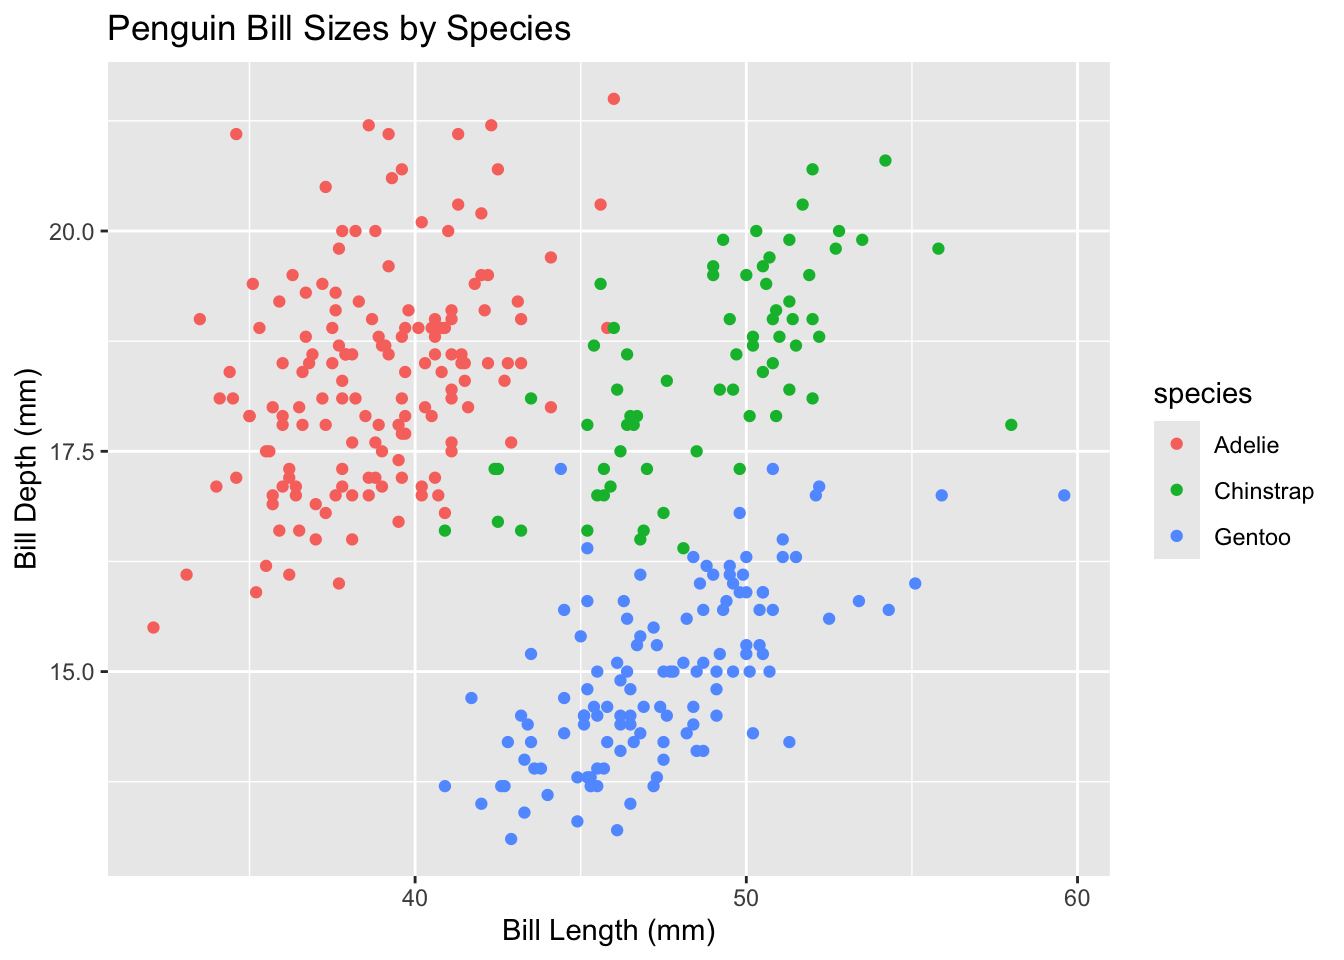
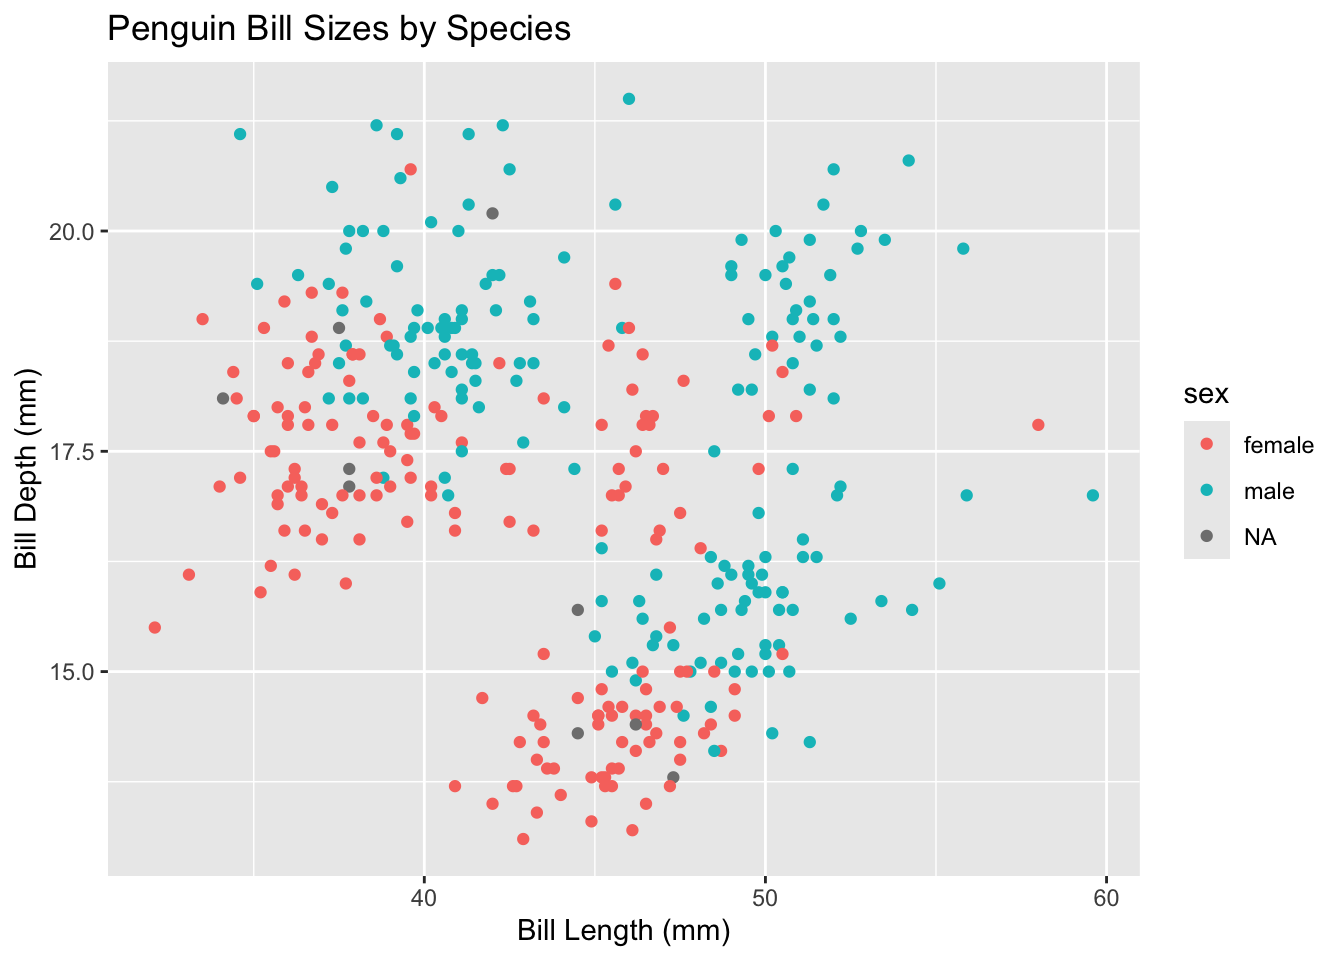
Afternoon tasks complete in total.

diff --git a/eds212-day2-tasks.html b/eds212-day2-tasks.html
@@ -161,7 +161,7 @@ pre > code.sourceCode > span > a:first-child::before { text-decoration: underlin
 # ℹ 334 more rows
 # ℹ 2 more variables: sex &lt;fct&gt;, year &lt;int&gt;</code></pre>
 </div>
-<div class="sourceCode cell-code" id="cb14"><pre class="sourceCode r code-with-copy"><code class="sourceCode r"><span id="cb14-1"><a href="#cb14-1" aria-hidden="true" tabindex="-1"></a><span class="fu">ggplot</span>(<span class="at">data =</span> penguins, <span class="fu">aes</span>(<span class="at">x =</span> bill_length_mm, <span class="at">y =</span> bill_depth_mm, <span class="at">color =</span> species)) <span class="sc">+</span></span>
+<div class="sourceCode cell-code" id="cb14"><pre class="sourceCode r code-with-copy"><code class="sourceCode r"><span id="cb14-1"><a href="#cb14-1" aria-hidden="true" tabindex="-1"></a><span class="fu">ggplot</span>(<span class="at">data =</span> penguins, <span class="fu">aes</span>(<span class="at">x =</span> bill_length_mm, <span class="at">y =</span> bill_depth_mm, <span class="at">color =</span> sex)) <span class="sc">+</span></span>
 <span id="cb14-2"><a href="#cb14-2" aria-hidden="true" tabindex="-1"></a>  <span class="fu">geom_point</span>() <span class="sc">+</span></span>
 <span id="cb14-3"><a href="#cb14-3" aria-hidden="true" tabindex="-1"></a>  <span class="fu">labs</span>(<span class="at">title =</span> <span class="st">"Penguin Bill Sizes by Species"</span>,</span>
 <span id="cb14-4"><a href="#cb14-4" aria-hidden="true" tabindex="-1"></a>       <span class="at">x =</span> <span class="st">"Bill Length (mm)"</span>,</span>
@@ -179,7 +179,7 @@ pre > code.sourceCode > span > a:first-child::before { text-decoration: underlin
 </div>
 </div>
 <div class="cell">
-<div class="sourceCode cell-code" id="cb16"><pre class="sourceCode r code-with-copy"><code class="sourceCode r"><span id="cb16-1"><a href="#cb16-1" aria-hidden="true" tabindex="-1"></a><span class="fu">ggplot</span>(<span class="at">data =</span> penguins, <span class="fu">aes</span>(<span class="at">x =</span> species, <span class="at">y =</span> flipper_length_mm, <span class="at">color =</span> species)) <span class="sc">+</span></span>
+<div class="sourceCode cell-code" id="cb16"><pre class="sourceCode r code-with-copy"><code class="sourceCode r"><span id="cb16-1"><a href="#cb16-1" aria-hidden="true" tabindex="-1"></a><span class="fu">ggplot</span>(<span class="at">data =</span> penguins, <span class="fu">aes</span>(<span class="at">x =</span> species, <span class="at">y =</span> flipper_length_mm, <span class="at">color =</span> body_mass_g)) <span class="sc">+</span></span>
 <span id="cb16-2"><a href="#cb16-2" aria-hidden="true" tabindex="-1"></a>  <span class="fu">geom_jitter</span>() <span class="sc">+</span></span>
 <span id="cb16-3"><a href="#cb16-3" aria-hidden="true" tabindex="-1"></a>  <span class="fu">labs</span>(<span class="at">title =</span> <span class="st">"Flipper Length by Species"</span>,</span>
 <span id="cb16-4"><a href="#cb16-4" aria-hidden="true" tabindex="-1"></a>       <span class="at">x =</span> <span class="st">"Species"</span>,</span>
